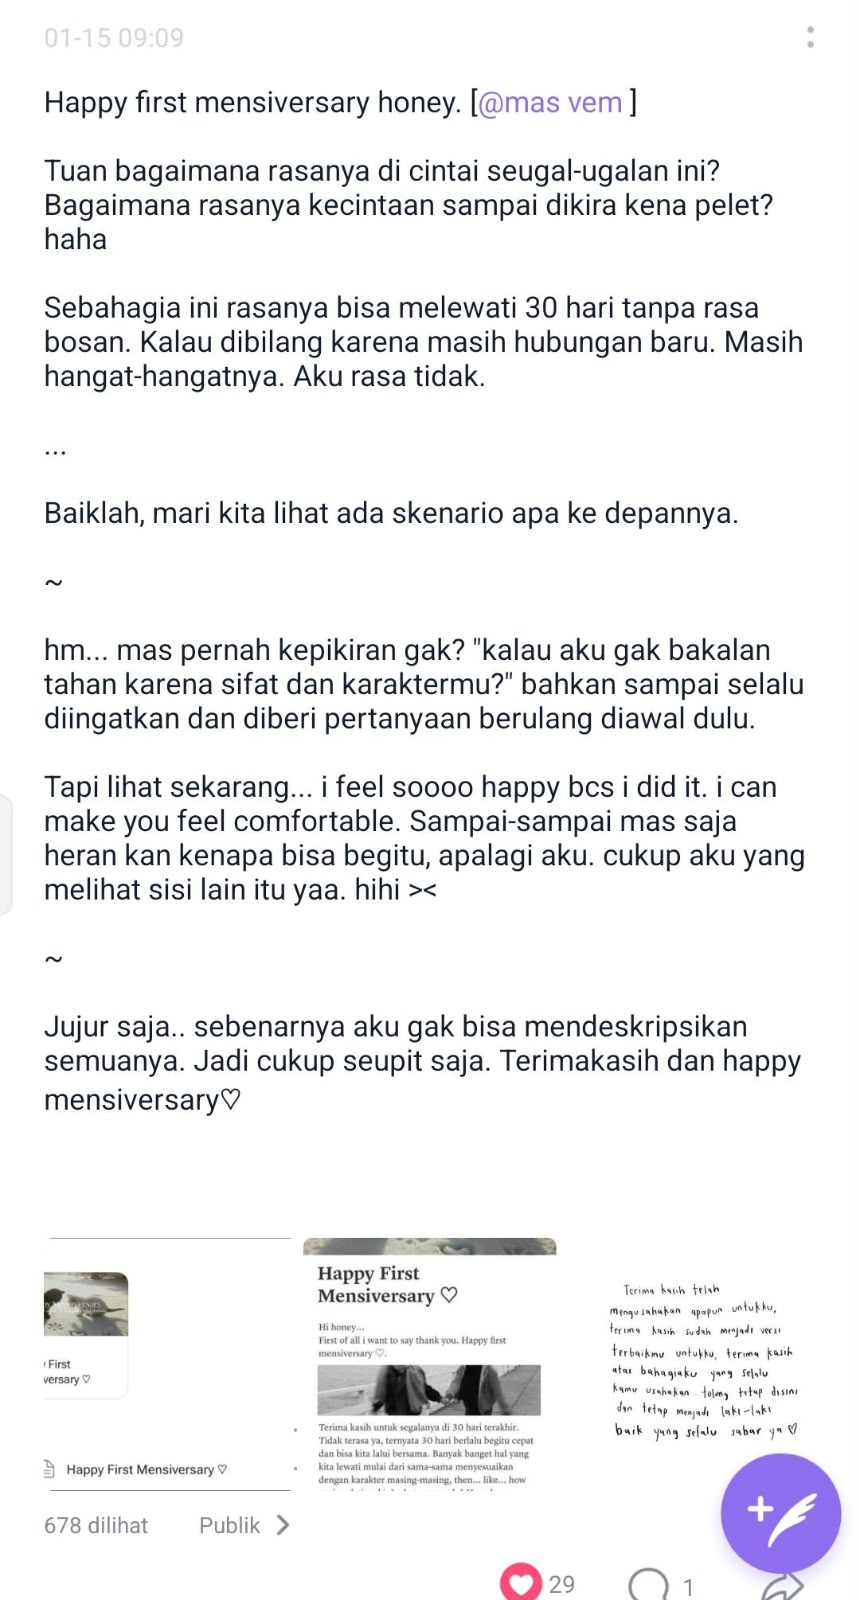
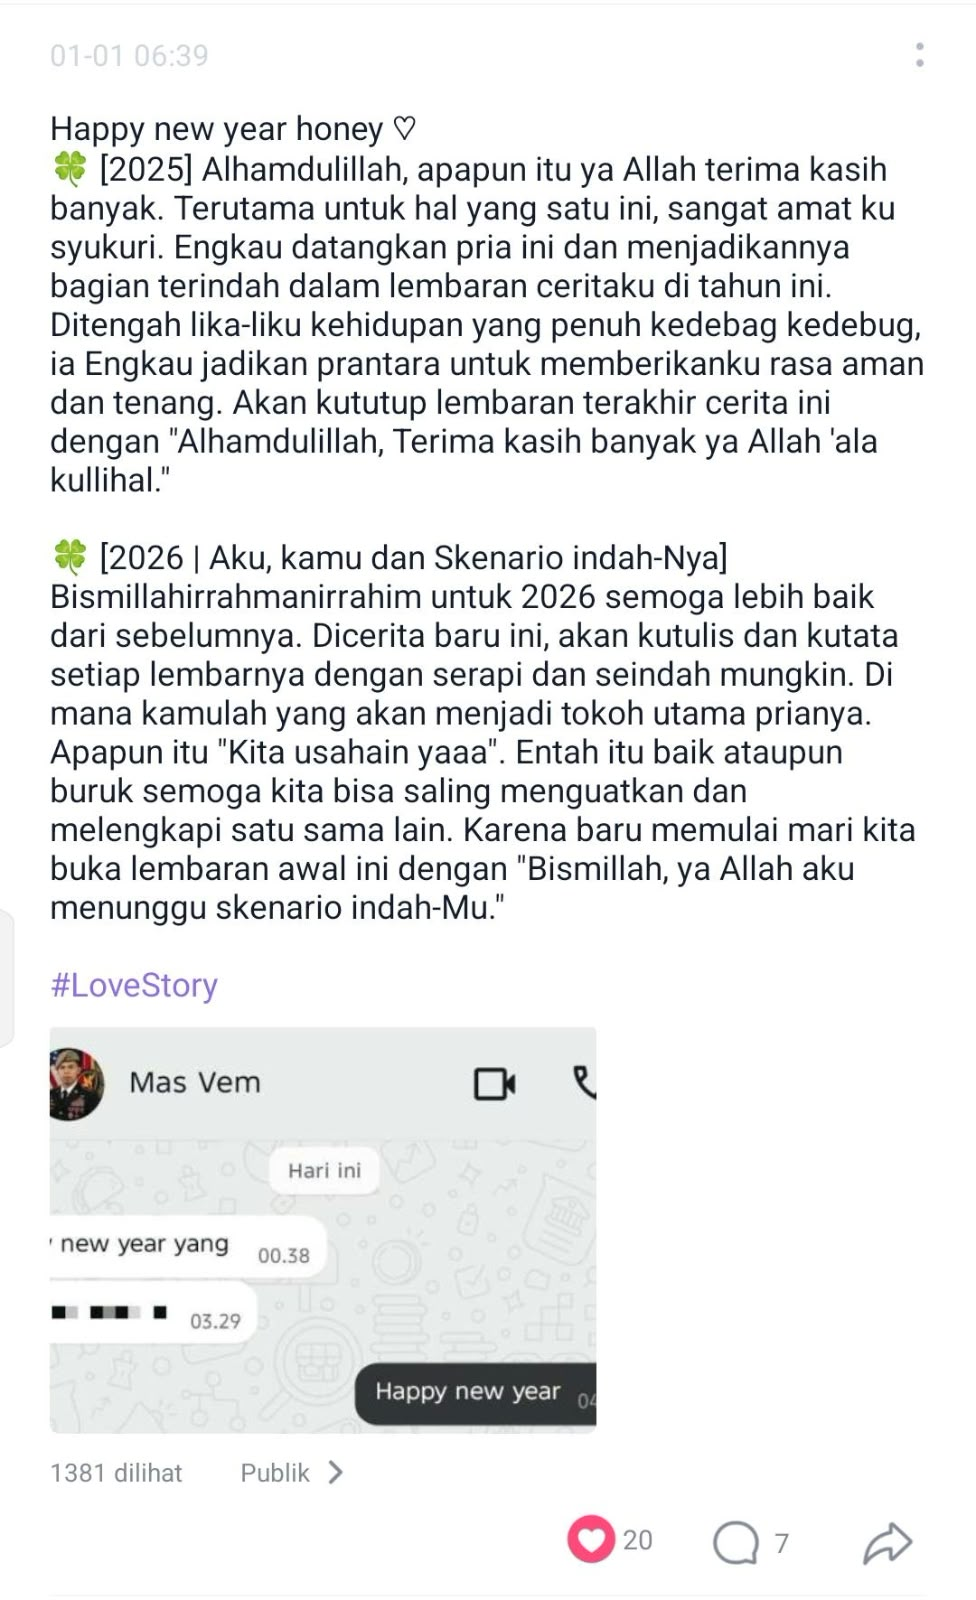
Add files via upload

Changed region(s): [[0.0302, 0.0, 0.9372, 1.0], [0.6953, 0.8125, 0.9977, 1.0], [0.7256, 0.9375, 0.786, 1.0]]

diff --git a/index.html b/index.html
@@ -120,26 +120,36 @@
                 <p class="gallery-hint">Tap a picture to see it more clearly ♡</p>
             </article>
 
-            <!-- STORY 2: FIRST IMPRESSION -->
-            <article class="story-card first-impression">
-                <p class="story-number">02 · MY FIRST IMPRESSION</p>
-                <div class="story-decoration">☾ ✦ ☽</div>
+           
+<!-- STORY 2: FIRST IMPRESSION -->
+<article class="story-card first-impression">
+    <p class="story-number">02 · MY FIRST IMPRESSION</p>
 
-                <h3>The Way I First Saw You</h3>
+    <!-- PHOTO: FIRST IMPRESSION -->
+    <div class="first-impression-photo">
+        <img
+            src="first-impression.jpeg"
+            alt="A memory from my first impression"
+        >
+    </div>
 
-                <p class="story-text">
-                    You seemed simple and straight to the point.
-                    Sometimes you talked big, which still makes me smile.
-                    You could be a good listener, too.
-                    You were not exactly the easiest person to get close to,
-                    but little by little, I got to know more of you.
-                </p>
+    <div class="story-decoration">☾ ✦ ☽</div>
 
-                <p class="small-quote">
-                    "Some people take time to understand,
-                    and that is part of their story, too."
-                </p>
-            </article>
+    <h3>The Way I First Saw You</h3>
+
+    <p class="story-text">
+        You seemed simple and straight to the point.
+        Sometimes you talked big, which still makes me smile.
+        You could be a good listener, too.
+        You were not exactly the easiest person to get close to,
+        but little by little, I got to know more of you.
+    </p>
+
+    <p class="small-quote">
+        "Some people take time to understand,
+        and that is part of their story, too."
+    </p>
+</article>
 
             <!-- STORY 3: DISTANCE -->
             <article class="story-card">

diff --git a/style.css b/style.css
@@ -668,3 +668,36 @@ main,
         font-size: 12px;
     }
 }
+
+/* ===== FIRST IMPRESSION PHOTO ===== */
+
+.first-impression-photo {
+    width: 100%;
+    max-width: 340px;
+    margin: 22px auto 25px;
+    padding: 7px;
+    overflow: hidden;
+    border: 1px solid rgba(185, 216, 240, 0.55);
+    border-radius: 16px;
+    background: rgba(141, 188, 232, 0.08);
+    box-shadow: 0 10px 30px rgba(0, 0, 0, 0.22);
+}
+
+.first-impression-photo img {
+    display: block;
+    width: 100%;
+    height: auto;
+    border-radius: 10px;
+}
+
+.first-impression .story-decoration {
+    margin-top: 8px;
+}
+
+@media (max-width: 480px) {
+    .first-impression-photo {
+        max-width: 290px;
+        margin: 18px auto 22px;
+        padding: 5px;
+    }
+}
